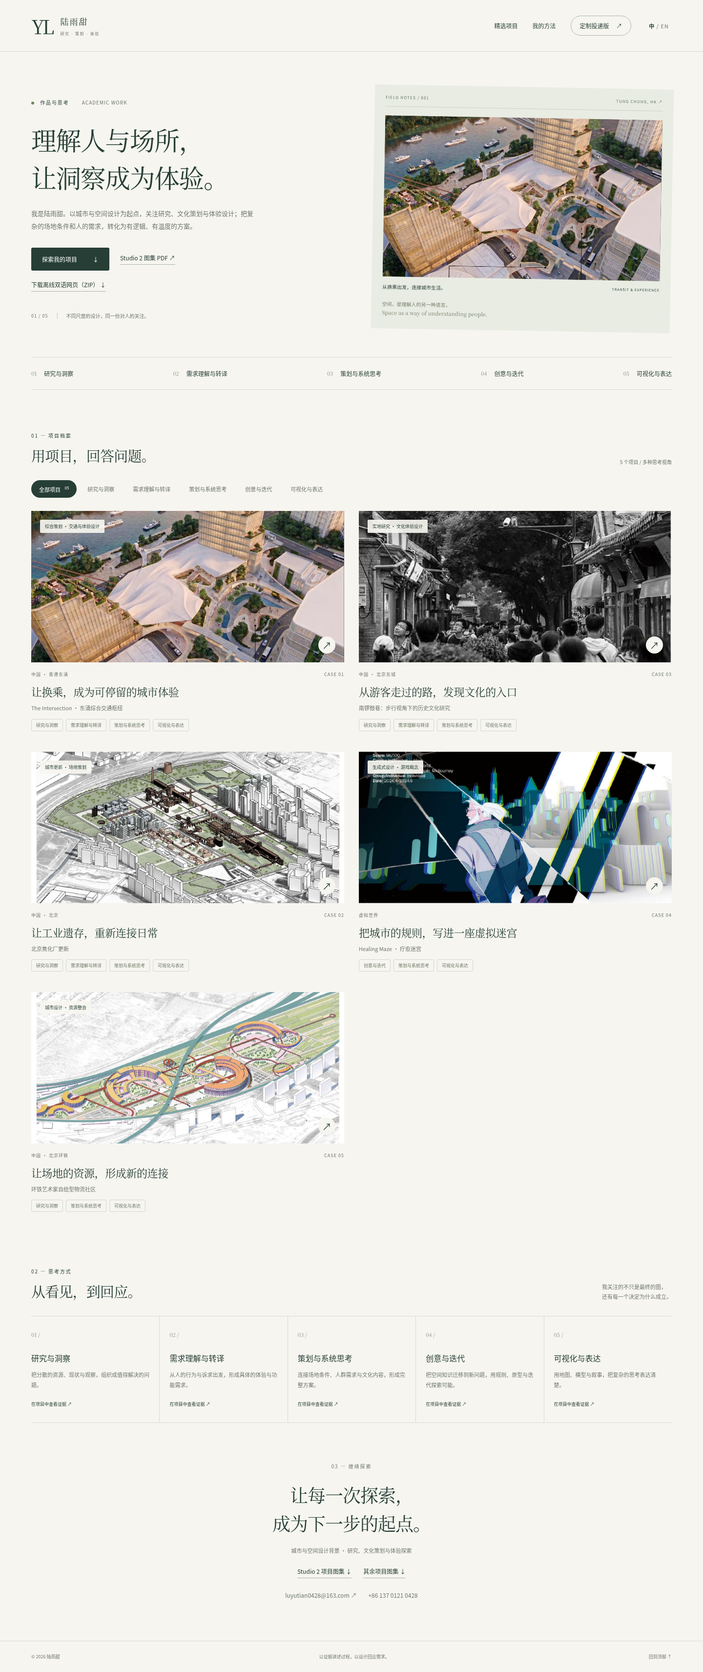
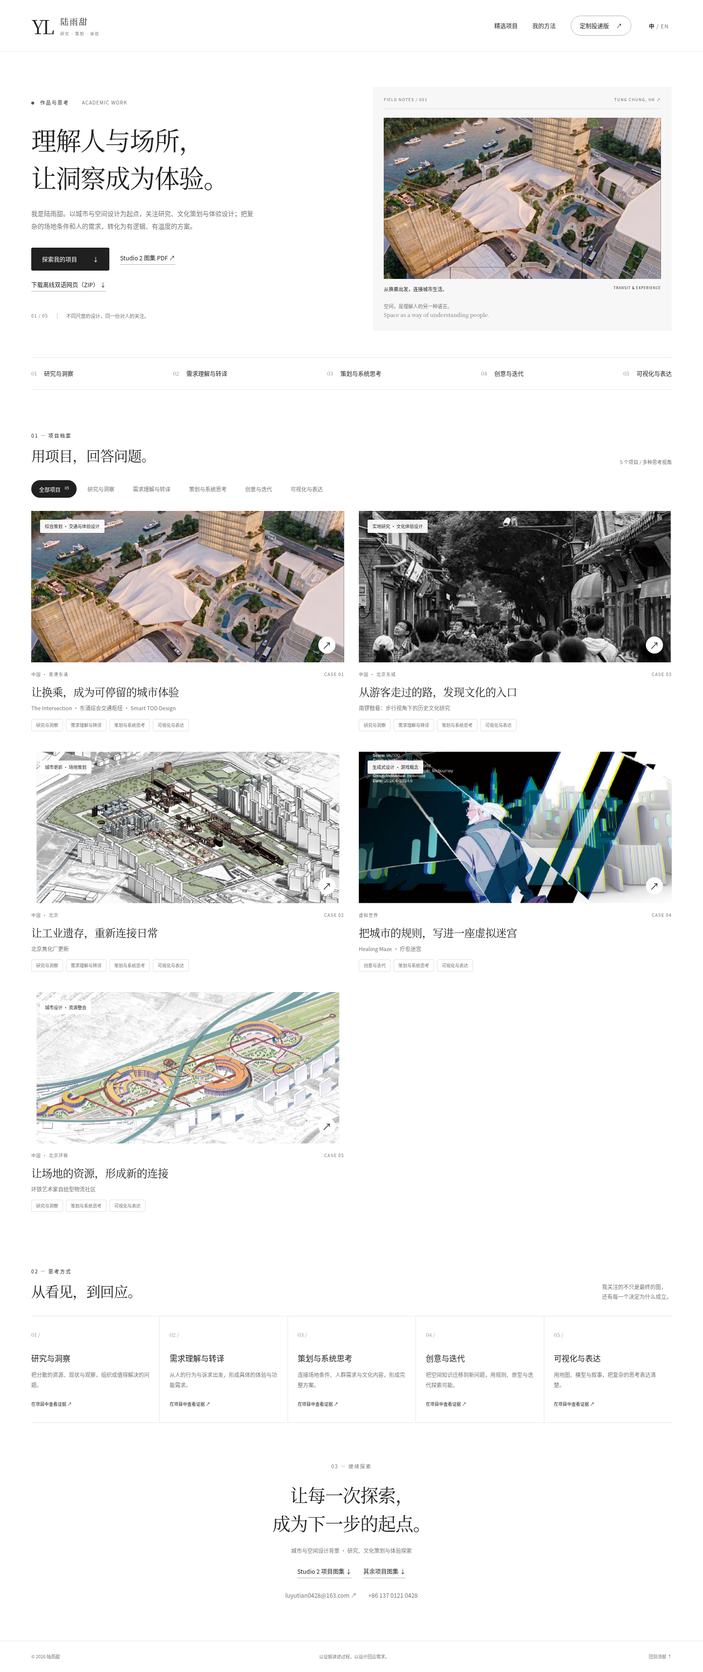
Use a white minimal palette and refine Smart TOD project label

diff --git a/src/style.css b/src/style.css
@@ -1,5 +1,5 @@
-:root{font-family:Inter,"Helvetica Neue","PingFang SC","Microsoft YaHei",sans-serif;color:#263e36;background:#f6f5ef;font-synthesis:none;font-weight:400;font-size:15px;--paper:#f6f5ef;--ink:#263e36;--muted:#6e766e;--line:#d8ddd2;--accent:#b9c5a7}
-*{box-sizing:border-box}html{scroll-behavior:smooth;scroll-padding-top:100px}body{margin:0}button,a,input,textarea,select{-webkit-tap-highlight-color:transparent}button,input,textarea,select{font:inherit}button,a{touch-action:manipulation}a{color:inherit;text-decoration:none}button{color:inherit;cursor:pointer}button:disabled{cursor:wait;opacity:.5}button{border:0;background:none}button:focus-visible,a:focus-visible,input:focus-visible,select:focus-visible,textarea:focus-visible{outline:2px solid #51725c;outline-offset:5px}img{display:block;max-width:100%}p{line-height:1.85}h1,h2,h3,p,figure{margin:0}h1,h2,h3{font-weight:500}header,main,footer{max-width:1480px;margin:auto;padding-inline:64px}header{height:106px;display:flex;align-items:center;justify-content:space-between;border-bottom:1px solid var(--line);gap:24px}.wordmark{display:flex;gap:17px;align-items:center;font-family:Georgia,serif;font-size:40px;letter-spacing:-5px}.wordmark>span{font-family:inherit;font-size:17px;letter-spacing:2px}.wordmark-sub{display:block;font-family:Arial,sans-serif;font-size:8px;letter-spacing:1.5px;margin-top:7px;color:var(--muted)}nav{display:flex;align-items:center;gap:30px;font-size:12px}nav>a{padding-block:10px}.nav-tool{font-size:12px;border:1px solid #aab6a3;border-radius:30px;padding:11px 18px}.nav-tool span{margin-left:12px}.language{font-size:11px;letter-spacing:1px;color:var(--muted)}.language b{color:var(--ink)}.hero{display:grid;grid-template-columns:1.05fr 1fr;gap:58px;padding-block:72px 54px;align-items:center}.eyebrow{font-size:10px;font-weight:500;letter-spacing:1.9px;line-height:1.7;display:block}.eyebrow i{display:inline-block;width:6px;height:6px;background:#698861;border-radius:100%;margin-right:8px}.eyebrow>span{color:var(--muted);letter-spacing:1px;margin-left:22px}h1{font-size:clamp(34px,3.6vw,54px);line-height:1.48;letter-spacing:-1.4px;margin:30px 0 22px;font-family:Georgia,"Songti SC","SimSun",serif}.intro{max-width:460px;font-size:13px;color:var(--muted);line-height:2}.hero-actions{display:flex;align-items:center;gap:22px;margin-top:31px}.solid{display:inline-flex;align-items:center;justify-content:space-between;gap:32px;background:var(--ink);color:#fff;padding:15px 22px;font-size:12px;border-radius:3px}.solid:hover{background:#3b5a47}.text-link{font-size:12px;border-bottom:1px solid #aab6a3;padding-bottom:5px}.hero-note{margin-top:42px;font-size:10px;color:var(--muted);display:flex;gap:18px;align-items:center}.hero-note>span{font-size:9px;letter-spacing:1px;border-right:1px solid #bec8b9;padding-right:18px}.hero-art{position:relative;background:#e9ece2;padding:20px 22px 23px;transform:rotate(1deg)}.art-top{display:flex;justify-content:space-between;font-size:8px;letter-spacing:1.2px;color:#637260;border-bottom:1px solid #ccd3c3;padding-bottom:13px}.hero-image{height:330px;overflow:hidden;margin:18px 0 13px;background:white}.hero-image img{width:100%;height:113%;object-fit:cover;object-position:top}.hero-art figcaption{display:flex;justify-content:space-between;font-size:10px;gap:16px}.hero-art figcaption>span:last-child{font-size:7px;letter-spacing:1px}.art-index{font-size:10px;line-height:1.7;margin-top:19px;color:#76816e}.art-index em{font-family:Georgia,serif;font-size:11px}.skill-strip{display:flex;justify-content:space-between;gap:16px;padding:24px 0;border-top:1px solid var(--line);border-bottom:1px solid var(--line)}.skill-strip>div{display:flex;gap:15px;align-items:center}.skill-strip small{font-family:Georgia,serif;font-style:italic;color:#87937d;font-size:11px}.skill-strip span{font-size:12px}.section{padding-top:85px}.section-heading{display:flex;justify-content:space-between;align-items:end;gap:30px;margin-bottom:30px}.section-heading h2{font-size:29px;letter-spacing:-.8px;margin-top:12px;font-family:Georgia,"Songti SC","SimSun",serif}.section-side{font-size:10px;color:var(--muted)}.filters{display:flex;gap:6px;flex-wrap:wrap;margin-bottom:27px}.filters button{font-size:11px;padding:9px 15px;border-radius:24px;color:var(--muted);border:1px solid transparent}.filters button[aria-pressed=true]{background:var(--ink);color:white}.filters button:hover{border-color:#a7b49b}.filters sup{margin-left:6px;font-size:8px}.project-grid{display:grid;grid-template-columns:1fr 1fr;gap:42px 30px}.project-open{width:100%;text-align:left;padding:0}.project-image{position:relative;height:310px;background:#e4e7dd;overflow:hidden}.project-image>img{width:100%;height:118%;object-fit:cover;object-position:top;transition:transform .6s}.project-image.maze>img{height:100%;object-fit:cover}.project-image.hutong>img{width:200%;max-width:none;height:auto;object-fit:initial}.project-open:hover .project-image>img{transform:scale(1.035)}.image-badge{position:absolute;left:18px;top:18px;padding:7px 10px;background:rgba(246,245,239,.93);font-size:9px;border-radius:2px}.round-arrow{position:absolute;right:18px;bottom:18px;width:35px;height:35px;border-radius:50%;background:var(--paper);display:grid;place-items:center;font-size:19px}.project-meta{display:flex;justify-content:space-between;font-size:9px;letter-spacing:1px;color:var(--muted);margin:18px 0 12px}.project-card h3{font-size:22px;line-height:1.5;letter-spacing:-.4px;font-family:Georgia,"Songti SC","SimSun",serif}.original-name{font-size:11px;color:var(--muted);margin:7px 0 12px}.chips{display:flex;flex-wrap:wrap;gap:6px}.chip{font-size:9px;border:1px solid #d3d9cd;color:#6b7764;padding:5px 9px;border-radius:3px}.approach{margin-top:28px}.approach .section-heading p{white-space:pre-line;font-size:11px;color:var(--muted);max-width:310px}.method-grid{display:grid;grid-template-columns:repeat(5,1fr);border-top:1px solid var(--line);border-bottom:1px solid var(--line)}.method-grid article{padding:29px 20px 30px 0;display:flex;flex-direction:column}.method-grid article+article{border-left:1px solid var(--line);padding-left:20px}.method-number{font-size:11px;color:#89957d;font-family:Georgia,serif}.method-grid h3{font-size:16px;margin-top:28px;margin-bottom:12px}.method-grid p{font-size:11px;color:var(--muted);flex:1}.evidence-link{font-size:9px;margin-top:23px;text-align:left;padding:0;line-height:1.6}.closing{text-align:center;padding:80px 20px 85px}.closing .eyebrow{color:var(--muted)}.closing h2{font-size:37px;line-height:1.55;letter-spacing:-1px;font-family:Georgia,"Songti SC","SimSun",serif;margin:22px 0 17px}.closing p{font-size:11px;color:var(--muted);margin-bottom:24px}footer{display:flex;justify-content:space-between;gap:20px;border-top:1px solid var(--line);padding-block:25px;font-size:9px;color:var(--muted)}.skip{position:fixed;left:10px;top:-80px;z-index:20;background:white;padding:12px}.skip:focus{top:10px}dialog{background:var(--paper);color:var(--ink);border:1px solid var(--line);padding:0;border-radius:6px;max-height:90dvh;width:min(1060px,94vw);overscroll-behavior:contain}dialog::backdrop{background:rgba(24,39,31,.6);backdrop-filter:blur(5px)}.dialog-bar{display:flex;justify-content:space-between;align-items:center;position:sticky;top:0;background:var(--paper);border-bottom:1px solid var(--line);padding:14px 28px;z-index:1;font-size:10px;letter-spacing:1.4px}.close{font-size:29px;width:40px;height:40px;font-weight:300}.case-content,.tailor-content{padding:38px 44px 44px}.case-content h2,.tailor-content h2{font-size:34px;line-height:1.5;font-family:Georgia,"Songti SC","SimSun",serif;margin:15px 0}.case-original{font-size:14px;color:var(--muted)}.role{font-size:11px;color:var(--muted);margin:10px 0 18px}.case-intro{display:grid;grid-template-columns:1fr 3fr;gap:25px;padding-top:35px;margin-top:28px;border-top:1px solid var(--line)}.case-content h3{font-size:16px}.case-content p{font-size:13px;color:var(--muted)}blockquote{font-family:Georgia,"Songti SC","SimSun",serif;font-size:24px;line-height:1.7;border-left:2px solid #9bb18b;margin:30px 0;padding:12px 25px;background:#e9ede2}.case-steps{display:grid;grid-template-columns:repeat(3,1fr);gap:25px;margin:32px 0}.case-steps small{font-family:Georgia,serif;color:#7f9271}.case-steps h3{margin:12px 0}.gallery{background:#e6e9df;padding:20px;margin-top:30px}.gallery-toolbar{display:flex;justify-content:space-between;align-items:center;margin-bottom:17px;gap:14px}.gallery-toolbar h3{font-size:12px}#gallery-count{font-size:10px;white-space:nowrap}.gallery>a{display:block;background:white}#gallery-image{width:100%;height:auto}.gallery-controls{display:flex;align-items:center;justify-content:space-between;gap:14px;margin-top:16px}.gallery-controls>button{font-size:22px;width:35px;height:35px}.gallery-thumbs{display:flex;gap:7px;overflow-x:auto;padding:4px}.gallery-thumbs button{width:65px;padding:2px;flex-shrink:0;border:2px solid transparent}.gallery-thumbs button[aria-pressed=true]{border-color:var(--ink)}.gallery-thumbs img{width:100%}.case-evidence{padding:26px;background:#ebeee4;margin:30px 0}.case-evidence p{margin:12px 0}.case-evidence small{font-size:10px;line-height:1.8;display:block;color:var(--muted)}.tailor-dialog{width:min(880px,94vw)}.tailor-content>p{font-size:13px;color:var(--muted)}label{display:block;font-size:12px;margin:25px 0 10px}textarea,input,select{border:1px solid #bdc7b6;background:#fffef8;border-radius:3px;color:var(--ink);padding:12px;width:100%;font-size:13px;line-height:1.7}textarea{resize:vertical}select{cursor:pointer}.field-note{font-size:10px!important;line-height:1.8;color:var(--muted);margin:10px 0 15px}.outline{border:1px solid #a0ae96;border-radius:3px;padding:12px 17px;font-size:12px}.outline:hover{background:#e4e9db}.edit-grid{display:grid;grid-template-columns:1fr 1fr;gap:22px}.editor-actions{display:flex;gap:12px;margin-top:30px;flex-wrap:wrap}.reset{margin-left:25px}.match-result{border:1px solid #c1cbb8;padding:18px;margin-top:20px;background:#e9eee1;font-size:12px}.match-result p{font-size:12px;margin-top:9px}.match-result small{color:var(--muted);margin-left:10px}.toast{position:fixed;bottom:24px;left:50%;transform:translate(-50%,10px);padding:14px 22px;background:var(--ink);color:white;font-size:12px;opacity:0;pointer-events:none;transition:.2s;z-index:5;max-width:90vw}.toast.visible{opacity:1;transform:translate(-50%,0)}
+:root{font-family:Inter,"Helvetica Neue","PingFang SC","Microsoft YaHei",sans-serif;color:#202020;background:#ffffff;font-synthesis:none;font-weight:400;font-size:15px;--paper:#ffffff;--ink:#202020;--muted:#737373;--line:#e7e7e7;--accent:#d4d4d4}
+*{box-sizing:border-box}html{scroll-behavior:smooth;scroll-padding-top:100px}body{margin:0}button,a,input,textarea,select{-webkit-tap-highlight-color:transparent}button,input,textarea,select{font:inherit}button,a{touch-action:manipulation}a{color:inherit;text-decoration:none}button{color:inherit;cursor:pointer}button:disabled{cursor:wait;opacity:.5}button{border:0;background:none}button:focus-visible,a:focus-visible,input:focus-visible,select:focus-visible,textarea:focus-visible{outline:2px solid #515151;outline-offset:5px}img{display:block;max-width:100%}p{line-height:1.85}h1,h2,h3,p,figure{margin:0}h1,h2,h3{font-weight:500}header,main,footer{max-width:1480px;margin:auto;padding-inline:64px}header{height:106px;display:flex;align-items:center;justify-content:space-between;border-bottom:1px solid var(--line);gap:24px}.wordmark{display:flex;gap:17px;align-items:center;font-family:Georgia,serif;font-size:40px;letter-spacing:-5px}.wordmark>span{font-family:inherit;font-size:17px;letter-spacing:2px}.wordmark-sub{display:block;font-family:Arial,sans-serif;font-size:8px;letter-spacing:1.5px;margin-top:7px;color:var(--muted)}nav{display:flex;align-items:center;gap:30px;font-size:12px}nav>a{padding-block:10px}.nav-tool{font-size:12px;border:1px solid #b5b5b5;border-radius:30px;padding:11px 18px}.nav-tool span{margin-left:12px}.language{font-size:11px;letter-spacing:1px;color:var(--muted)}.language b{color:var(--ink)}.hero{display:grid;grid-template-columns:1.05fr 1fr;gap:58px;padding-block:72px 54px;align-items:center}.eyebrow{font-size:10px;font-weight:500;letter-spacing:1.9px;line-height:1.7;display:block}.eyebrow i{display:inline-block;width:6px;height:6px;background:#555555;border-radius:100%;margin-right:8px}.eyebrow>span{color:var(--muted);letter-spacing:1px;margin-left:22px}h1{font-size:clamp(34px,3.6vw,54px);line-height:1.48;letter-spacing:-1.4px;margin:30px 0 22px;font-family:Georgia,"Songti SC","SimSun",serif}.intro{max-width:460px;font-size:13px;color:var(--muted);line-height:2}.hero-actions{display:flex;align-items:center;gap:22px;margin-top:31px}.solid{display:inline-flex;align-items:center;justify-content:space-between;gap:32px;background:var(--ink);color:#fff;padding:15px 22px;font-size:12px;border-radius:3px}.solid:hover{background:#3b3b3b}.text-link{font-size:12px;border-bottom:1px solid #b5b5b5;padding-bottom:5px}.hero-note{margin-top:42px;font-size:10px;color:var(--muted);display:flex;gap:18px;align-items:center}.hero-note>span{font-size:9px;letter-spacing:1px;border-right:1px solid #c8c8c8;padding-right:18px}.hero-art{position:relative;background:#f7f7f7;padding:20px 22px 23px;transform:none}.art-top{display:flex;justify-content:space-between;font-size:8px;letter-spacing:1.2px;color:#6a6a6a;border-bottom:1px solid #dddddd;padding-bottom:13px}.hero-image{height:330px;overflow:hidden;margin:18px 0 13px;background:white}.hero-image img{width:100%;height:113%;object-fit:cover;object-position:top}.hero-art figcaption{display:flex;justify-content:space-between;font-size:10px;gap:16px}.hero-art figcaption>span:last-child{font-size:7px;letter-spacing:1px}.art-index{font-size:10px;line-height:1.7;margin-top:19px;color:#777777}.art-index em{font-family:Georgia,serif;font-size:11px}.skill-strip{display:flex;justify-content:space-between;gap:16px;padding:24px 0;border-top:1px solid var(--line);border-bottom:1px solid var(--line)}.skill-strip>div{display:flex;gap:15px;align-items:center}.skill-strip small{font-family:Georgia,serif;font-style:italic;color:#888888;font-size:11px}.skill-strip span{font-size:12px}.section{padding-top:85px}.section-heading{display:flex;justify-content:space-between;align-items:end;gap:30px;margin-bottom:30px}.section-heading h2{font-size:29px;letter-spacing:-.8px;margin-top:12px;font-family:Georgia,"Songti SC","SimSun",serif}.section-side{font-size:10px;color:var(--muted)}.filters{display:flex;gap:6px;flex-wrap:wrap;margin-bottom:27px}.filters button{font-size:11px;padding:9px 15px;border-radius:24px;color:var(--muted);border:1px solid transparent}.filters button[aria-pressed=true]{background:var(--ink);color:white}.filters button:hover{border-color:#aaaaaa}.filters sup{margin-left:6px;font-size:8px}.project-grid{display:grid;grid-template-columns:1fr 1fr;gap:42px 30px}.project-open{width:100%;text-align:left;padding:0}.project-image{position:relative;height:310px;background:#f4f4f4;overflow:hidden}.project-image>img{width:100%;height:118%;object-fit:cover;object-position:top;transition:transform .6s}.project-image.maze>img{height:100%;object-fit:cover}.project-image.hutong>img{width:200%;max-width:none;height:auto;object-fit:initial}.project-open:hover .project-image>img{transform:scale(1.035)}.image-badge{position:absolute;left:18px;top:18px;padding:7px 10px;background:rgba(255,255,255,.95);font-size:9px;border-radius:2px}.round-arrow{position:absolute;right:18px;bottom:18px;width:35px;height:35px;border-radius:50%;background:var(--paper);display:grid;place-items:center;font-size:19px}.project-meta{display:flex;justify-content:space-between;font-size:9px;letter-spacing:1px;color:var(--muted);margin:18px 0 12px}.project-card h3{font-size:22px;line-height:1.5;letter-spacing:-.4px;font-family:Georgia,"Songti SC","SimSun",serif}.original-name{font-size:11px;color:var(--muted);margin:7px 0 12px}.chips{display:flex;flex-wrap:wrap;gap:6px}.chip{font-size:9px;border:1px solid #e0e0e0;color:#707070;padding:5px 9px;border-radius:3px}.approach{margin-top:28px}.approach .section-heading p{white-space:pre-line;font-size:11px;color:var(--muted);max-width:310px}.method-grid{display:grid;grid-template-columns:repeat(5,1fr);border-top:1px solid var(--line);border-bottom:1px solid var(--line)}.method-grid article{padding:29px 20px 30px 0;display:flex;flex-direction:column}.method-grid article+article{border-left:1px solid var(--line);padding-left:20px}.method-number{font-size:11px;color:#888888;font-family:Georgia,serif}.method-grid h3{font-size:16px;margin-top:28px;margin-bottom:12px}.method-grid p{font-size:11px;color:var(--muted);flex:1}.evidence-link{font-size:9px;margin-top:23px;text-align:left;padding:0;line-height:1.6}.closing{text-align:center;padding:80px 20px 85px}.closing .eyebrow{color:var(--muted)}.closing h2{font-size:37px;line-height:1.55;letter-spacing:-1px;font-family:Georgia,"Songti SC","SimSun",serif;margin:22px 0 17px}.closing p{font-size:11px;color:var(--muted);margin-bottom:24px}footer{display:flex;justify-content:space-between;gap:20px;border-top:1px solid var(--line);padding-block:25px;font-size:9px;color:var(--muted)}.skip{position:fixed;left:10px;top:-80px;z-index:20;background:white;padding:12px}.skip:focus{top:10px}dialog{background:var(--paper);color:var(--ink);border:1px solid var(--line);padding:0;border-radius:6px;max-height:90dvh;width:min(1060px,94vw);overscroll-behavior:contain}dialog::backdrop{background:rgba(0,0,0,.55);backdrop-filter:blur(5px)}.dialog-bar{display:flex;justify-content:space-between;align-items:center;position:sticky;top:0;background:var(--paper);border-bottom:1px solid var(--line);padding:14px 28px;z-index:1;font-size:10px;letter-spacing:1.4px}.close{font-size:29px;width:40px;height:40px;font-weight:300}.case-content,.tailor-content{padding:38px 44px 44px}.case-content h2,.tailor-content h2{font-size:34px;line-height:1.5;font-family:Georgia,"Songti SC","SimSun",serif;margin:15px 0}.case-original{font-size:14px;color:var(--muted)}.role{font-size:11px;color:var(--muted);margin:10px 0 18px}.case-intro{display:grid;grid-template-columns:1fr 3fr;gap:25px;padding-top:35px;margin-top:28px;border-top:1px solid var(--line)}.case-content h3{font-size:16px}.case-content p{font-size:13px;color:var(--muted)}blockquote{font-family:Georgia,"Songti SC","SimSun",serif;font-size:24px;line-height:1.7;border-left:2px solid #aaaaaa;margin:30px 0;padding:12px 25px;background:#f7f7f7}.case-steps{display:grid;grid-template-columns:repeat(3,1fr);gap:25px;margin:32px 0}.case-steps small{font-family:Georgia,serif;color:#808080}.case-steps h3{margin:12px 0}.gallery{background:#f5f5f5;padding:20px;margin-top:30px}.gallery-toolbar{display:flex;justify-content:space-between;align-items:center;margin-bottom:17px;gap:14px}.gallery-toolbar h3{font-size:12px}#gallery-count{font-size:10px;white-space:nowrap}.gallery>a{display:block;background:white}#gallery-image{width:100%;height:auto}.gallery-controls{display:flex;align-items:center;justify-content:space-between;gap:14px;margin-top:16px}.gallery-controls>button{font-size:22px;width:35px;height:35px}.gallery-thumbs{display:flex;gap:7px;overflow-x:auto;padding:4px}.gallery-thumbs button{width:65px;padding:2px;flex-shrink:0;border:2px solid transparent}.gallery-thumbs button[aria-pressed=true]{border-color:var(--ink)}.gallery-thumbs img{width:100%}.case-evidence{padding:26px;background:#f7f7f7;margin:30px 0}.case-evidence p{margin:12px 0}.case-evidence small{font-size:10px;line-height:1.8;display:block;color:var(--muted)}.tailor-dialog{width:min(880px,94vw)}.tailor-content>p{font-size:13px;color:var(--muted)}label{display:block;font-size:12px;margin:25px 0 10px}textarea,input,select{border:1px solid #c8c8c8;background:#ffffff;border-radius:3px;color:var(--ink);padding:12px;width:100%;font-size:13px;line-height:1.7}textarea{resize:vertical}select{cursor:pointer}.field-note{font-size:10px!important;line-height:1.8;color:var(--muted);margin:10px 0 15px}.outline{border:1px solid #aaaaaa;border-radius:3px;padding:12px 17px;font-size:12px}.outline:hover{background:#f3f3f3}.edit-grid{display:grid;grid-template-columns:1fr 1fr;gap:22px}.editor-actions{display:flex;gap:12px;margin-top:30px;flex-wrap:wrap}.reset{margin-left:25px}.match-result{border:1px solid #cecece;padding:18px;margin-top:20px;background:#f7f7f7;font-size:12px}.match-result p{font-size:12px;margin-top:9px}.match-result small{color:var(--muted);margin-left:10px}.toast{position:fixed;bottom:24px;left:50%;transform:translate(-50%,10px);padding:14px 22px;background:var(--ink);color:white;font-size:12px;opacity:0;pointer-events:none;transition:.2s;z-index:5;max-width:90vw}.toast.visible{opacity:1;transform:translate(-50%,0)}
 @media(min-width:1550px){.hero{gap:90px}.hero-image{height:380px}.project-image{height:370px}}
 @media(max-width:1050px){header,main,footer{padding-inline:32px}.hero{gap:28px}h1{font-size:35px}.hero-image{height:290px}.hero-art{padding:16px}.hero-actions{gap:14px;flex-wrap:wrap}.project-image{height:260px}.method-grid{grid-template-columns:repeat(3,1fr)}.method-grid article:nth-child(4){border-left:0;padding-left:0;border-top:1px solid var(--line)}.method-grid article:nth-child(5){border-top:1px solid var(--line)}.skill-strip>div{gap:8px}.skill-strip span{font-size:10px}nav{gap:20px}.hero-art figcaption>span:last-child{display:none}}
 @media(max-width:700px){header,main,footer{padding-inline:22px}header{height:85px}.wordmark{font-size:34px}.wordmark>span{font-size:13px}.wordmark-sub{font-size:7px}nav{gap:12px}nav>a{display:none}.nav-tool{font-size:10px;padding:9px 12px}.nav-tool span{margin-left:4px}.language{font-size:10px;padding-inline:0}.hero{grid-template-columns:1fr;gap:35px;padding-block:44px 34px}h1{font-size:39px;line-height:1.45;margin:23px 0 20px}.intro{font-size:13px}.hero-note{margin-top:25px}.hero-image{height:310px}.hero-art{margin:0 3px}.skill-strip{gap:16px;flex-wrap:wrap;padding:20px 0}.skill-strip>div{width:calc(50% - 8px)}.skill-strip span{font-size:12px}.section{padding-top:52px}.section-heading{display:block;margin-bottom:22px}.section-heading h2{font-size:27px}.section-side{display:block;margin-top:16px}.filters{gap:4px}.filters button{font-size:10px;padding:8px 11px}.project-grid{grid-template-columns:1fr;gap:35px}.project-image{height:290px}.project-card h3{font-size:23px}.approach{margin-top:0}.approach .section-heading p{margin-top:17px}.method-grid{grid-template-columns:1fr 1fr}.method-grid article{padding:22px 14px 24px 0}.method-grid article+article{padding-left:14px}.method-grid article:nth-child(3),.method-grid article:nth-child(5){border-left:0;padding-left:0}.method-grid article:nth-child(3){border-top:1px solid var(--line)}.method-grid article:nth-child(4){border-left:1px solid var(--line);padding-left:14px}.method-grid h3{font-size:16px;margin-top:20px}.method-grid p{font-size:12px}.closing{padding:55px 0}.closing h2{font-size:29px}.closing p{font-size:10px}footer{font-size:9px;flex-wrap:wrap}footer>span:nth-child(2){display:none}.case-content,.tailor-content{padding:25px 20px 30px}.case-content h2,.tailor-content h2{font-size:27px}.dialog-bar{padding:10px 15px;font-size:8px}.case-intro{grid-template-columns:1fr;gap:13px}.case-steps{grid-template-columns:1fr;gap:23px}blockquote{font-size:21px;padding:13px 17px}.gallery{padding:10px;margin-inline:-10px}.gallery-toolbar h3{font-size:10px}.gallery-thumbs button{width:46px}.gallery-controls{gap:5px}.edit-grid{grid-template-columns:1fr;gap:0}.hero-art .art-top{font-size:7px}.closing h2{letter-spacing:0}}
@@ -14,5 +14,5 @@
 
 .offline-download{display:inline-block;margin-top:20px}
 
-.board-downloads{display:flex;justify-content:center;gap:24px;flex-wrap:wrap}.case-highlights{margin-top:36px}.case-highlight{background:#e9ede2;padding:22px;margin-top:20px}.case-highlight figcaption p{margin:10px 0 18px}.case-highlight button{display:block;position:relative;width:100%;padding:0;background:white}.case-highlight button img{width:100%;height:auto;max-height:450px;object-fit:contain}.case-highlight button span{position:absolute;bottom:12px;right:12px;background:var(--paper);padding:8px 12px;font-size:10px;border-radius:3px}.case-highlight small{display:block;font-size:10px;color:var(--muted);margin-top:12px;line-height:1.7}
+.board-downloads{display:flex;justify-content:center;gap:24px;flex-wrap:wrap}.case-highlights{margin-top:36px}.case-highlight{background:#f7f7f7;padding:22px;margin-top:20px}.case-highlight figcaption p{margin:10px 0 18px}.case-highlight button{display:block;position:relative;width:100%;padding:0;background:white}.case-highlight button img{width:100%;height:auto;max-height:450px;object-fit:contain}.case-highlight button span{position:absolute;bottom:12px;right:12px;background:var(--paper);padding:8px 12px;font-size:10px;border-radius:3px}.case-highlight small{display:block;font-size:10px;color:var(--muted);margin-top:12px;line-height:1.7}
 @media(max-width:700px){.case-highlight{padding:14px}.case-highlight button span{bottom:8px;right:8px;font-size:9px}.board-downloads{gap:18px}}

diff --git a/src/main.js b/src/main.js
@@ -75,7 +75,7 @@ function portfolioApp(content, stylesheet, embedded = {}) {
     const p = activeProject, d = $('#case-dialog');
     const pdfFile = p.sourcePdf || 'Project-Boards.pdf';
     const pdfPage = p.sourcePage ?? p.cover - 1;
-    d.innerHTML = `<div class="dialog-bar"><span>PROJECT ${p.no} / ${esc(t(p.type))}</span><button class="close" aria-label="${txt('关闭项目','Close project')}">×</button></div><div class="case-content"><span class="eyebrow">${esc(t(p.location))}</span><h2 id="case-title">${esc(t(p.title))}</h2><p class="case-original">${esc(t(p.original))}</p><p class="role">${esc(t(p.role))}</p>${p.id !== 'railway' ? `<p class="team-note">${txt('以下介绍小组项目的整体思路与成果。','The following describes the team project’s overall approach and outputs.')}</p>` : ''}<div class="chips">${chips(p.skills)}</div><div class="case-intro"><h3>${txt('项目背景','Context')}</h3><p>${esc(t(p.background))}</p></div><blockquote>${esc(t(p.question))}</blockquote><div class="case-steps">${p.steps.map((s,i) => `<article><small>0${i+1}</small><h3>${esc(t(s[0]))}</h3><p>${esc(t(s[1]))}</p></article>`).join('')}</div>${p.highlights ? `<section class="case-highlights" aria-label="${txt('分析与设计证据','Analysis and design evidence')}"><h3>${txt('从分析到设计，关键的三步','Three steps from analysis to design')}</h3>${p.highlights.map((h,i)=>`<figure class="case-highlight"><figcaption><h3>${esc(t(h.title))}</h3><p>${esc(t(h.text))}</p></figcaption><button data-highlight="${i}" aria-label="${txt('放大','Enlarge')} ${esc(t(h.title))}"><img src="${asset(h.image)}" alt="${esc(t(h.title))}" loading="lazy"><span>${txt('查看细节','Explore detail')} ↗</span></button><small>${esc(t(h.source))}</small></figure>`).join('')}</section>` : ''}<div class="gallery"><div class="gallery-toolbar"><h3>${txt('原始图板 · 点击放大','Original boards · click to enlarge')}</h3><span id="gallery-count"></span></div><a id="gallery-full" target="_blank" rel="noopener"><img id="gallery-image" alt=""></a><div class="gallery-controls"><button id="prev-page" aria-label="${txt('上一张','Previous board')}">←</button><div class="gallery-thumbs">${p.pages.map((n,i) => `<button data-page="${i}" aria-label="${txt('查看 PDF 第','View PDF page ')} ${typeof n === 'number' ? n : i+1} ${txt('页','')}"><img src="${page(n)}" alt=""></button>`).join('')}</div><button id="next-page" aria-label="${txt('下一张','Next board')}">→</button></div></div><div class="case-evidence"><h3>${txt('成果与证据边界','Outputs & evidence')}</h3><p>${esc(t(p.outcome))}</p><small>${esc(t(p.evidence))}</small></div><a class="text-link" href="${asset(pdfFile)}#page=${pdfPage}" ${embedded[pdfFile] ? `download="${esc(pdfFile)}"` : 'target="_blank" rel="noopener"'}>${embedded[pdfFile] ? txt('下载项目图集','Download project boards') : txt('在项目图集中查看','View in the project boards PDF')} ↗</a></div>`;
+    d.innerHTML = `<div class="dialog-bar"><span>PROJECT ${p.no} / ${esc(t(p.type))}</span><button class="close" aria-label="${txt('关闭项目','Close project')}">×</button></div><div class="case-content"><span class="eyebrow">${esc(t(p.location))}</span><h2 id="case-title">${esc(t(p.title))}</h2><p class="case-original">${esc(t(p.original))}</p>${p.role ? `<p class="role">${esc(t(p.role))}</p>` : ''}${p.id !== 'railway' && p.role ? `<p class="team-note">${txt('以下介绍小组项目的整体思路与成果。','The following describes the team project’s overall approach and outputs.')}</p>` : ''}<div class="chips">${chips(p.skills)}</div><div class="case-intro"><h3>${txt('项目背景','Context')}</h3><p>${esc(t(p.background))}</p></div><blockquote>${esc(t(p.question))}</blockquote><div class="case-steps">${p.steps.map((s,i) => `<article><small>0${i+1}</small><h3>${esc(t(s[0]))}</h3><p>${esc(t(s[1]))}</p></article>`).join('')}</div>${p.highlights ? `<section class="case-highlights" aria-label="${txt('分析与设计证据','Analysis and design evidence')}"><h3>${txt('从分析到设计，关键的三步','Three steps from analysis to design')}</h3>${p.highlights.map((h,i)=>`<figure class="case-highlight"><figcaption><h3>${esc(t(h.title))}</h3><p>${esc(t(h.text))}</p></figcaption><button data-highlight="${i}" aria-label="${txt('放大','Enlarge')} ${esc(t(h.title))}"><img src="${asset(h.image)}" alt="${esc(t(h.title))}" loading="lazy"><span>${txt('查看细节','Explore detail')} ↗</span></button><small>${esc(t(h.source))}</small></figure>`).join('')}</section>` : ''}<div class="gallery"><div class="gallery-toolbar"><h3>${txt('原始图板 · 点击放大','Original boards · click to enlarge')}</h3><span id="gallery-count"></span></div><a id="gallery-full" target="_blank" rel="noopener"><img id="gallery-image" alt=""></a><div class="gallery-controls"><button id="prev-page" aria-label="${txt('上一张','Previous board')}">←</button><div class="gallery-thumbs">${p.pages.map((n,i) => `<button data-page="${i}" aria-label="${txt('查看 PDF 第','View PDF page ')} ${typeof n === 'number' ? n : i+1} ${txt('页','')}"><img src="${page(n)}" alt=""></button>`).join('')}</div><button id="next-page" aria-label="${txt('下一张','Next board')}">→</button></div></div><div class="case-evidence"><h3>${txt('成果与证据边界','Outputs & evidence')}</h3><p>${esc(t(p.outcome))}</p><small>${esc(t(p.evidence))}</small></div><a class="text-link" href="${asset(pdfFile)}#page=${pdfPage}" ${embedded[pdfFile] ? `download="${esc(pdfFile)}"` : 'target="_blank" rel="noopener"'}>${embedded[pdfFile] ? txt('下载项目图集','Download project boards') : txt('在项目图集中查看','View in the project boards PDF')} ↗</a></div>`;
     d.querySelector('.close').onclick = () => d.close();
     d.querySelectorAll('[data-page]').forEach(b => b.onclick = () => {galleryIndex = Number(b.dataset.page); updateGallery();});
     $('#prev-page').onclick = () => {galleryIndex = (galleryIndex+p.pages.length-1)%p.pages.length;updateGallery();};

diff --git a/src/data.js b/src/data.js
@@ -9,9 +9,9 @@ export const skills = [
 export const projects = [
   {
     id: 'transit', no: '01', title: bi('让换乘，成为可停留的城市体验', 'Making transit a place to pause, connect and stay'),
-    original: bi('The Intersection · 东涌综合交通枢纽', 'The Intersection · Tung Chung integrated transit hub'),
+    original: bi('The Intersection · 东涌综合交通枢纽 · Smart TOD Design', 'The Intersection · Tung Chung integrated transit hub · Smart TOD Design'),
     type: bi('综合策划 · 交通与体验设计', 'Integrated strategy · Transit experience'), location: bi('中国 · 香港东涌', 'Tung Chung, Hong Kong'),
-    role: bi('小组课程项目 · Studio 2', 'Team academic project · Studio 2'),
+    role: null,
     cover: 'studio2', pages: ['studio2-01','studio2-02','studio2-03','studio2-04','studio2-05','studio2-06'],
     sourcePdf: 'Studio2-The-Intersection.pdf', sourcePage: 1,
     skills: ['insight','people','strategy','communication'],

diff --git a/index.html b/index.html
@@ -3,7 +3,7 @@
   <head>
     <meta charset="UTF-8" />
     <meta name="viewport" content="width=device-width, initial-scale=1.0" />
-    <meta name="theme-color" content="#f6f5ef" />
+    <meta name="theme-color" content="#ffffff" />
     <meta name="description" content="Yutian Lu — 从城市、文化与人的需求出发，探索研究、策划与体验设计。" />
     <title>陆雨甜 Yutian Lu · 研究 / 策划 / 体验</title>
   </head>
